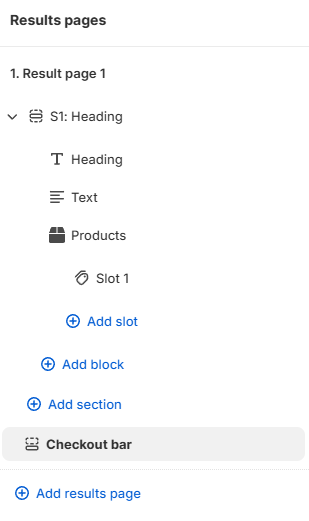
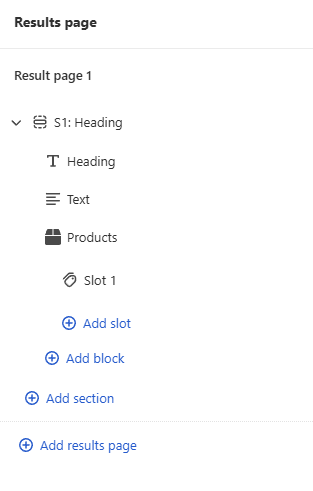
docs: update results page documentation with new settings and improved clarity, including image updates and terminology adjustments

diff --git a/docs/reference/quiz-builder/results-page.md b/docs/reference/quiz-builder/results-page.md
@@ -16,23 +16,13 @@
 
     ![manual_shopifyV2_quizbuilder_quizbuilder_resultspage_resultspages](/images/manual_shopifyV2_quizbuilder_quizbuilder_resultspage_resultspages.png)
 
-    **1. Results page 1** - the first results page, currently editing.
+    **Results page 1** - the first results page, currently editing.
 
     **+ Add results page** - Add another results page to your quiz. 
 
     !!! note
 
         The customers will be taken to the first results page by default. If you want to point them to a different results page, you'll have to do that using [Jump Logic](conditional-logic/#jump-logic) via the quiz Conditional Logic tab.
-
-    **Checkout bar** - Seelct the settings of the checkout bar. 
-
-    ![manual_shopifyV2_quizbuilder_quizbuilder_resultspage_resultspages_checkoutbar](/images/manual_shopifyV2_quizbuilder_quizbuilder_resultspage_resultspages_checkoutbar.png)
-
-    *Show "retake quiz" button* - Uncheck if you want to hide the "retake quiz" button.
-
-    *Proceed to checkout* - After adding the products to cart, the customer will be redirected directly to checkout.
-
-    *Proceed to cart* - After adding the products to cart, the customer will be redirected to the cart page.
 
     **+ Add section** - Adds a new section to this results page.
 
@@ -186,7 +176,7 @@
 
     ![quiz builder results page block menu](/images/manual_quizbuilder_resultspage_blockmenu.png)
 
-### Block Logic / Section Logic
+### Block Logic / Display Section Logic
 
 === "Shopify"
 
@@ -231,17 +221,17 @@
 
     ![manual_shopifyV2_quizbuilder_quizbuilder_resultspage_resultspages_blocklogic](/images/manual_shopifyV2_quizbuilder_quizbuilder_resultspage_resultspages_blocklogic.png)
 
-    With Block Logic you can make blocks visible or hidden based on customer's responses.
+    With Display Logic you can make **sections** visible or hidden based on customer's responses.
 
     **Display logic**
 
-    **+ Add logic condition (OR)** - Adds a new OR block logic rule.
+    **+ Add condition (OR)** - Adds a new OR block logic rule.
 
     **Default** - Select whether this section should be `Shown` or `Hidden` by default.
 
     !!! info
 
-        All the Block Logic rules follow the same format
+        All the Display Logic rules follow the same format
 
         - **IF response to** pick the question from a dropdown list
         - **is**/ **is not** pick a choice from the dropdown list
@@ -496,6 +486,8 @@
 
     To add an image click `Select image`. You can uplaod an image from your device or select from the in-app uploaded image gallery.
 
+    *Alt text* - Add an alternative text for this image.
+
     *Image height* - Select the size of the image.
 
     *Image alignment* - Select the image alignment left, right or center.
@@ -738,7 +730,19 @@
 
     **Allow duplicated recommendations** - Check this option to allow products to be shown in more than one product/slot blocks.
 
-    **Show unavailable products** - Check this option to allow out-of-stock products to be displayed on the results page.
+    **Checkout options** - Seelct the settings of the checkout bar.
+
+    *Show bar* - Uncheck to hide the checkout bar.
+
+    *Show "retake quiz" button* - Uncheck if you want to hide the "retake quiz" button.
+
+    *Show "Add all to cart" button* - Uncheck to hide the "Add all to cart" button from the footer.
+
+    **Next destination for users** - Choose where customers go after the results page.
+
+    *Proceed to checkout* - After adding the products to cart, the customer will be redirected directly to checkout.
+
+    *Proceed to cart* - After adding the products to cart, the customer will be redirected to the cart page.
 
     **Custom CSS Code** - Add custom CSS code to this resutls page only.
 
@@ -786,15 +790,7 @@
 
 === "Shopify V2"
 
-    **Checkout bar** - Seelct the settings of the checkout bar.
-
-    ![manual_shopifyV2_quizbuilder_quizbuilder_resultspage_resultspages_checkoutbar](/images/manual_shopifyV2_quizbuilder_quizbuilder_resultspage_resultspages_checkoutbar.png)
-
-    **Show "retake quiz" button** - Uncheck if you want to hide the "retake quiz" button.
-
-    **Proceed to checkout** - After adding the products to cart, the customer will be redirected directly to checkout.
-
-    **Proceed to cart** - After adding the products to cart, the customer will be redirected to the cart page.
+    Check [Results Page settings](#results-page-settings) > `Checkout options`.
 
 === "WooCommerce"
 
